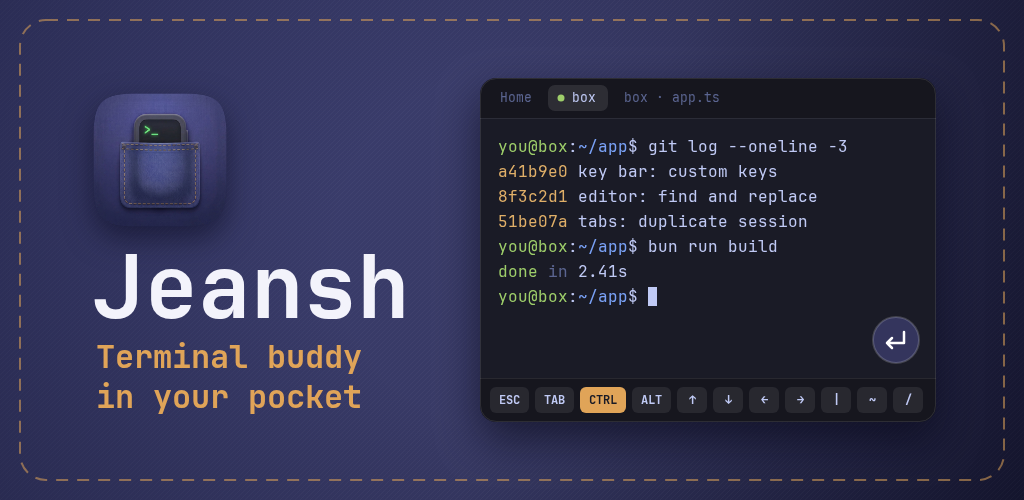
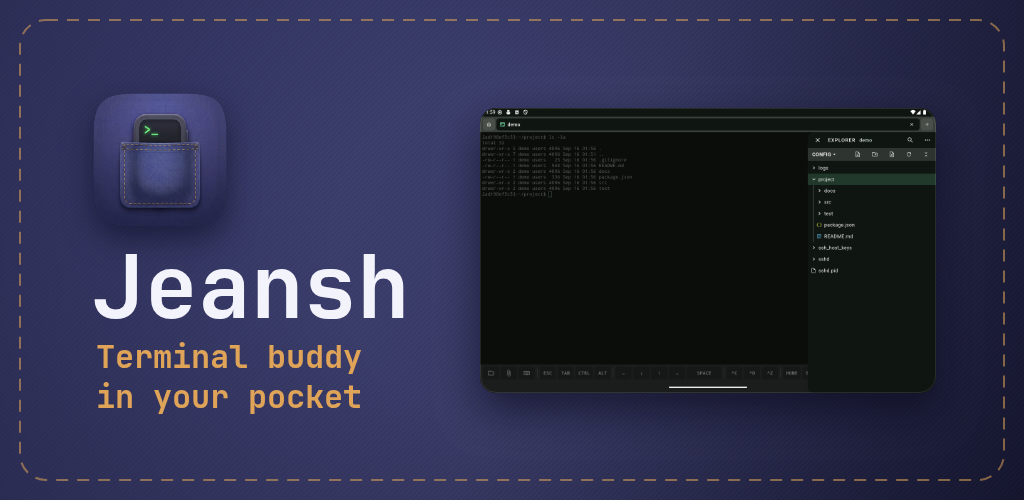
CLAUDE.md: the transfer speed fix failed its UAT again
Still about 1.5 MB/s on the tablet and still laggy, so the frame-rate
ceiling 36c599f lifted is not what binds there. Records the confound
worth clearing first: the build under test is a debug APK, where Dart
runs in the JIT with assertions on and the pure-Dart cipher pays for
it.

The lesson is written down too: the headless benchmark is what missed
this the first time, so the next number has to come off the device.

Claude-Session: https://claude.ai/code/session_01JzDmVDDcTeXyXSerbSGtfA

Changed region(s): [[0.4688, 0.15, 0.9375, 0.87], [0.8438, 0.63, 0.9062, 0.72]]

diff --git a/store/graphics/src/feature-graphic.html b/store/graphics/src/feature-graphic.html
@@ -18,14 +18,10 @@
 <canvas id="c" width="1024" height="500"></canvas>
 <script type="module">
   // The promo site's look (jeansh-web, src/styles.css): the icon's indigo,
-  // its amber stitching, a dark terminal. The terminal takes the app's
-  // Tokyo Night dark colours (lib/src/ui/terminal_schemes.dart).
+  // its amber stitching, a dark terminal.
   const W = 1024, H = 500;
   const brand = '#373964', stitch = '#e0a458', text = '#f3f3fb';
-  const t = {
-    bg: '#1a1b26', chrome: '#16161e', fg: '#c0caf5', dim: '#5b6591',
-    green: '#9ece6a', blue: '#7aa2f7', yellow: '#e0af68',
-  };
+  const t = { chrome: '#16161e' };
   const mono = (size, bold) => `${bold ? 700 : 400} ${size}px "JetBrains Mono"`;
 
   for (const w of [400, 700]) {
@@ -36,6 +32,12 @@
   const icon = new Image();
   icon.src = '../../../assets/branding/app_icon.png';
   await icon.decode();
+
+  // The app itself, photographed on the emulator rather than drawn here, so
+  // the graphic shows what a buyer will actually see (store/sc).
+  const shot = new Image();
+  shot.src = '../../sc/02-file-tree.png';
+  await shot.decode();
 
   const ctx = document.getElementById('c').getContext('2d');
 
@@ -80,8 +82,10 @@
   ctx.fillText('Terminal buddy', 96, 368);
   ctx.fillText('in your pocket', 96, 408);
 
-  // Right: a Jeansh tab, as the app draws it.
-  const x = 480, y = 78, w = 456, h = 344, r = 16;
+  // Right: the screenshot in a rounded frame. The frame keeps the shot's own
+  // 2560 × 1600, so nothing is cropped and no bars are left over.
+  const x = 480, w = 456, h = Math.round(w * shot.height / shot.width);
+  const y = Math.round(78 + (344 - h) / 2), r = 16;
   shadow('rgba(6,6,24,0.6)', 40, 18, () => {
     ctx.fillStyle = t.chrome;
     roundRect(x, y, w, h, r);
@@ -90,103 +94,7 @@
   ctx.save();
   roundRect(x, y, w, h, r);
   ctx.clip();
-
-  // Tabs.
-  ctx.font = mono(13);
-  ctx.textBaseline = 'middle';
-  let tx = x + 10;
-  for (const [label, active] of [['Home'], ['box', true], ['box · app.ts']]) {
-    const tw = ctx.measureText(label).width + (active ? 36 : 20);
-    if (active) {
-      ctx.fillStyle = 'rgba(255,255,255,0.1)';
-      roundRect(tx, y + 7, tw, 26, 7);
-      ctx.fill();
-      ctx.fillStyle = t.green;
-      ctx.beginPath();
-      ctx.arc(tx + 13, y + 20, 3.5, 0, Math.PI * 2);
-      ctx.fill();
-    }
-    ctx.fillStyle = active ? t.fg : t.dim;
-    ctx.fillText(label, tx + (active ? 24 : 10), y + 20.5);
-    tx += tw + 6;
-  }
-
-  // The shell.
-  const top = y + 40, keysTop = y + h - 44;
-  ctx.fillStyle = t.bg;
-  ctx.fillRect(x, top, w, keysTop - top);
-  ctx.fillStyle = 'rgba(255,255,255,0.08)';
-  ctx.fillRect(x, top, w, 1);
-  ctx.fillRect(x, keysTop, w, 1);
-
-  const prompt = [[t.green, 'you@box'], [t.fg, ':'], [t.blue, '~/app'], [t.fg, '$ ']];
-  const lines = [
-    [...prompt, [t.fg, 'git log --oneline -3']],
-    [[t.yellow, 'a41b9e0 '], [t.fg, 'key bar: custom keys']],
-    [[t.yellow, '8f3c2d1 '], [t.fg, 'editor: find and replace']],
-    [[t.yellow, '51be07a '], [t.fg, 'tabs: duplicate session']],
-    [...prompt, [t.fg, 'bun run build']],
-    [[t.green, 'done '], [t.dim, 'in '], [t.fg, '2.41s']],
-    [...prompt],
-  ];
-  // One cell at a time, as a terminal draws it, so no ligature joins "--".
-  ctx.font = mono(16);
-  ctx.textBaseline = 'alphabetic';
-  const cell = ctx.measureText('M').width;
-  let ly = top + 34;
-  let cx = 0;
-  for (const line of lines) {
-    cx = x + 18;
-    for (const [color, s] of line) {
-      ctx.fillStyle = color;
-      for (const ch of s) {
-        ctx.fillText(ch, cx, ly);
-        cx += cell;
-      }
-    }
-    ly += 25;
-  }
-  ctx.fillStyle = t.fg;
-  ctx.fillRect(cx, ly - 25 - 15, 9, 19);
-
-  // The magic key, bottom right of the shell.
-  const mx = x + w - 40, my = keysTop - 38;
-  ctx.globalAlpha = 0.9;
-  ctx.fillStyle = brand;
-  ctx.beginPath();
-  ctx.arc(mx, my, 23, 0, Math.PI * 2);
-  ctx.fill();
-  ctx.globalAlpha = 1;
-  ctx.strokeStyle = 'rgba(255,255,255,0.18)';
-  ctx.lineWidth = 2;
-  ctx.stroke();
-  ctx.strokeStyle = '#ffffff';
-  ctx.lineWidth = 2.5;
-  ctx.lineCap = 'round';
-  ctx.lineJoin = 'round';
-  ctx.beginPath();
-  ctx.moveTo(mx + 8, my - 8);
-  ctx.lineTo(mx + 8, my + 3);
-  ctx.lineTo(mx - 9, my + 3);
-  ctx.moveTo(mx - 4, my - 2);
-  ctx.lineTo(mx - 9, my + 3);
-  ctx.lineTo(mx - 4, my + 8);
-  ctx.stroke();
-
-  // The key bar, CTRL held.
-  ctx.font = mono(12, true);
-  ctx.textBaseline = 'middle';
-  let kx = x + 10;
-  for (const k of ['ESC', 'TAB', 'CTRL', 'ALT', '↑', '↓', '←', '→', '|', '~', '/']) {
-    const kw = Math.max(30, ctx.measureText(k).width + 18);
-    const on = k === 'CTRL';
-    ctx.fillStyle = on ? stitch : 'rgba(255,255,255,0.08)';
-    roundRect(kx, keysTop + 9, kw, 26, 6);
-    ctx.fill();
-    ctx.fillStyle = on ? t.bg : t.fg;
-    ctx.fillText(k, kx + (kw - ctx.measureText(k).width) / 2, keysTop + 22.5);
-    kx += kw + 6;
-  }
+  ctx.drawImage(shot, x, y, w, h);
   ctx.restore();
   ctx.strokeStyle = 'rgba(255,255,255,0.1)';
   ctx.lineWidth = 1;

diff --git a/CLAUDE.md b/CLAUDE.md
@@ -77,7 +77,7 @@ through its sub-agents.
 |---|---|---|---|
 | Database browser: a PostgreSQL table's rows edited in the grid and saved all at once, as TablePlus does: when every column of a result is one table's and its primary key is among them, a tap on a cell edits it (Set NULL too), holding a row deletes or restores it, Add row puts a new row on top whose untouched cells take their default, and what is not saved shows in colour until Save (or Ctrl+S, ⌘S) makes every change in one transaction and reads the rows back — one refused change makes none, and its error says why; Discard, running a query or opening a table drops whatever is not saved; MongoDB and Redis stay read-only | database client ui development | 7cef51a | on tablet, UAT pending: in build 1.0.30+30, installed on the tablet on 2026-09-16 with its data kept (asked for in "perlu ada feature untuk melakukan edit data dari rdbms dan perlu ada satu button untuk save all changes jadi kaya commit, jadi selagi data belum di commit maka ketika data di reload changesnya akan di hapus, fitur ini mirip dengan yang digunakan di tableplus") |
 | Images open in the file tab as pictures instead of binary noise: a file whose name ends .png, .jpg, .jpeg, .gif, .webp or .bmp opens in a viewer rather than the editor — those are the kinds Flutter decodes by itself, so .svg, .ico, .heic and .tiff deliberately stay editor files and keep the existing "This looks like a binary file" message, which already offers Download, instead of a viewer that could only fail; the picture fits the tab, pinch zooms and pans, and a double-tap jumps between the whole image and true device pixels anchored where it was tapped, with the name, the pixel size and the file size above it on a mid-grey ground, the one background a transparent PNG shows against in both themes; the file streams into a copy of the app's own a chunk at a time, through the same download every transfer uses, so nothing but the decoded image is ever held in memory, and anything past 20 MB is never opened — the size lands with the first chunk, so the rest is not pulled down — saying so and still offering Download, as do bytes that turn out not to be an image; the copy is deleted whenever the tab closes and the pixels leave Flutter's image cache with it, whichever of the close and the download finishes last; the tab chip still reads `<hostname> · file`, and a restored tab that named an image comes back as an image tab, because file tabs are saved as their path and the same rule routes them | Coordinator | d7c3140 | on tablet, UAT pending: in build 1.0.30+30, installed on the tablet on 2026-09-16 with its data kept (asked for in "current file viewer only can view text, need support to open image") |
-| Transfers run at the speed of the link again, not at the frame rate: last round's fix handed dartssh2 32 KB per event-loop turn to keep the frames coming, but the yield it used, a Future.delayed of Duration.zero, is a Timer, and a Flutter app services those about once a frame — so the real ceiling was 32 KB times 60, about 1.9 MB/s, which is exactly the 1.6 MB/s the user measured, and which the headless benchmark could never see because a Dart VM with no UI spins the loop about 175,000 times a second instead of 60; the socket now spends a 4 ms time budget each turn rather than a fixed number of bytes, so it hands over as much as the machine can take between frames and still yields honestly on a slow one, and uploads no longer wait on dartssh2's 16 pending writes, a separate gate of its own, but 64; measured while bound to a frame, a download goes 2.1 to 11.7 MB/s and an upload 10.4 to 37.6 MB/s on a link 30 ms away, with no frame dropped, and tool/transfer_bench.dart now imports the pacer instead of holding a copy of it, so what the benchmark measures is what the app runs | Coordinator | 36c599f | on tablet, UAT pending: in build 1.0.30+30, installed on the tablet on 2026-09-16 with its data kept, fixing a failed UAT ("yang tidak pass adalah ketika user melakukan transfer data somehow user mengalami laging dan speed maksimal bahkan local to local adalah 1,6MB") |
+| Transfers run at the speed of the link again, not at the frame rate: last round's fix handed dartssh2 32 KB per event-loop turn to keep the frames coming, but the yield it used, a Future.delayed of Duration.zero, is a Timer, and a Flutter app services those about once a frame — so the real ceiling was 32 KB times 60, about 1.9 MB/s, which is exactly the 1.6 MB/s the user measured, and which the headless benchmark could never see because a Dart VM with no UI spins the loop about 175,000 times a second instead of 60; the socket now spends a 4 ms time budget each turn rather than a fixed number of bytes, so it hands over as much as the machine can take between frames and still yields honestly on a slow one, and uploads no longer wait on dartssh2's 16 pending writes, a separate gate of its own, but 64; measured while bound to a frame, a download goes 2.1 to 11.7 MB/s and an upload 10.4 to 37.6 MB/s on a link 30 ms away, with no frame dropped, and tool/transfer_bench.dart now imports the pacer instead of holding a copy of it, so what the benchmark measures is what the app runs | Coordinator | 36c599f | UAT failed again on build 1.0.30+30: still about 1.5 MB/s and still laggy on a big transfer ("the download speed still only at 1,5MB, and user still feel laggy when user upload/download big file"), so the frame-rate ceiling this commit lifted is not what binds on the tablet; the build under test is a debug APK, where Dart runs in the JIT with assertions on and the pure-Dart cipher pays for it, so the next step is a profile build, to tell a slow app from a slow build, measured on the device rather than in a headless benchmark, which is what missed this the first time. It was fixing an earlier failed UAT ("yang tidak pass adalah ketika user melakukan transfer data somehow user mengalami laging dan speed maksimal bahkan local to local adalah 1,6MB") |
 | Duplicate on a host card: the ⋮ menu on Home offers Duplicate between Edit and Delete and saves a copy of the host straight away, so the new card is on Home to edit if anything needs changing, the way Duplicate session on a shell tab acts at once rather than opening a form first; the copy is a host of its own, taking the whole profile through `copyWith` — address, port, user, auth method, jump host, tmux, file-tree root and every other field, so one added to HostProfile later travels with it instead of being silently dropped, which a test checks by comparing the two profiles whole — and taking the password, private key and passphrase across to its new id, so it connects without the secret being typed again and nothing secret is ever logged or shown; what belongs to the original stays there, the copy having no open session, no history of its own in the logs and no notification key until it first connects, since all three are held per host id; it is named `<host> (copy)`, or `(copy 2)` and on while that name is taken, compared against the names the cards actually show | Coordinator | 21ced14 | on tablet, UAT pending: in build 1.0.30+30, installed on the tablet on 2026-09-16 with its data kept (asked for in "tambahkan duplicate di host card") |
 | Database icons are each product's own brand mark: PostgreSQL's elephant, MongoDB's leaf and Redis's stack, drawn from the devicon block already in the bundled CaskaydiaCove Nerd Font (U+E76E, U+E7A4, U+E76D, found by rendering the whole U+E700-E7C5 block and looking at it rather than guessing a codepoint), so the marks the user asked for as SVG cost no new asset and no flutter_svg dependency and arrive the same way the host OS logos already do; each is white on its brand's own colour (#336791, #47A248, #DC382D, every one at least 3:1 against white, so it reads in either theme) in a rounded square the size of a host's OS badge, which makes a database card and a host card read as one family on Home, and the same mark shows at 16 px on the database tab chip and beside each name in the editor's type picker | Coordinator | ca90b9f | on tablet, UAT pending: in build 1.0.30+30, installed on the tablet on 2026-09-16 with its data kept (asked for in "icon database perlu pakai icon svg berdasarkan brannya, postgres, mongodb dan redis") |
 | A way into the Transfers tab without a transfer, and the lag measured to its floor: Home's app bar gets a Transfers button beside Port forwarding, Logs, Known hosts and Settings — where the known hosts entry point was moved to — opening the same tab a notification tap opens, so asking again goes back to the one tab instead of making a second, and with nothing ever downloaded it opens on "Downloads and uploads show here."; the lag was measured before anything was changed, and then nothing was, because the numbers leave nothing cheap to take: one 32 KB packet costs 494-525 µs to open in the JIT a debug build runs and 932 µs in AOT (a release build is slower here, not faster), against an event-loop turn of 1.6-2.6 ms p99 through a paced download, so the cipher is about a quarter of a turn and SSH framing, SFTP parsing and the file sink are the rest of it; tool/transfer_bench.dart now also opens packets on a worker isolate holding the cipher (45.1 against 59.8 MB/s, taking 0.51 ms off this isolate and adding 0.18 ms of hand-over for it) and through an Isolate.run each (23.0 MB/s, far worse), and neither can take the framing along, because a connection's cipher is one running state every channel shares — so only the whole transport on an isolate of its own, or the second connection the last round turned down, moves what is left, and which of those to build is the user's call; reading 32755 a time rather than 32768, the one setting the first run hinted at, loses 18% on a fast link and stalls worse on a slow one, so it stays as it is | Coordinator | 2a52dfd | the button passed ("tombolnya sudah pass") but the transfers failed: laggy and capped at about 1.6 MB/s even between local machines ("yang tidak pass adalah ketika user melakukan transfer data somehow user mengalami laging dan speed maksimal bahkan local to local adalah 1,6MB"), which the coordinator traced to last round's pacing — the socket hands dartssh2 32 KB per event-loop turn, and a UI app's loop runs about 60 turns a second, so roughly 1.9 MB/s is a ceiling the headless benchmark could not see; being fixed by pacing on a time budget instead; the lag was measured again and deliberately left alone — with the paced socket the stalls are 1.6-2.6 ms p99 with no janky frames (7.5-14.5 ms before), the cipher is only about a quarter of an event-loop turn, and a worker isolate holding it buys back about 0.5 ms of 2.4 ms while costing about 25% throughput and cannot take dartssh2's framing with it, so moving the whole transport to an isolate or opening a second SSH connection for transfers is the user's call (asked for in "tab transfer juga sudah pass,  lagi nya masi terasa ini better di lakukan di background thread, sama perlu ditambahkan entry point manual untuk buka history download ini, karna selain trigger upload/download user tidak bisa masuk ke tab tersebut") |
